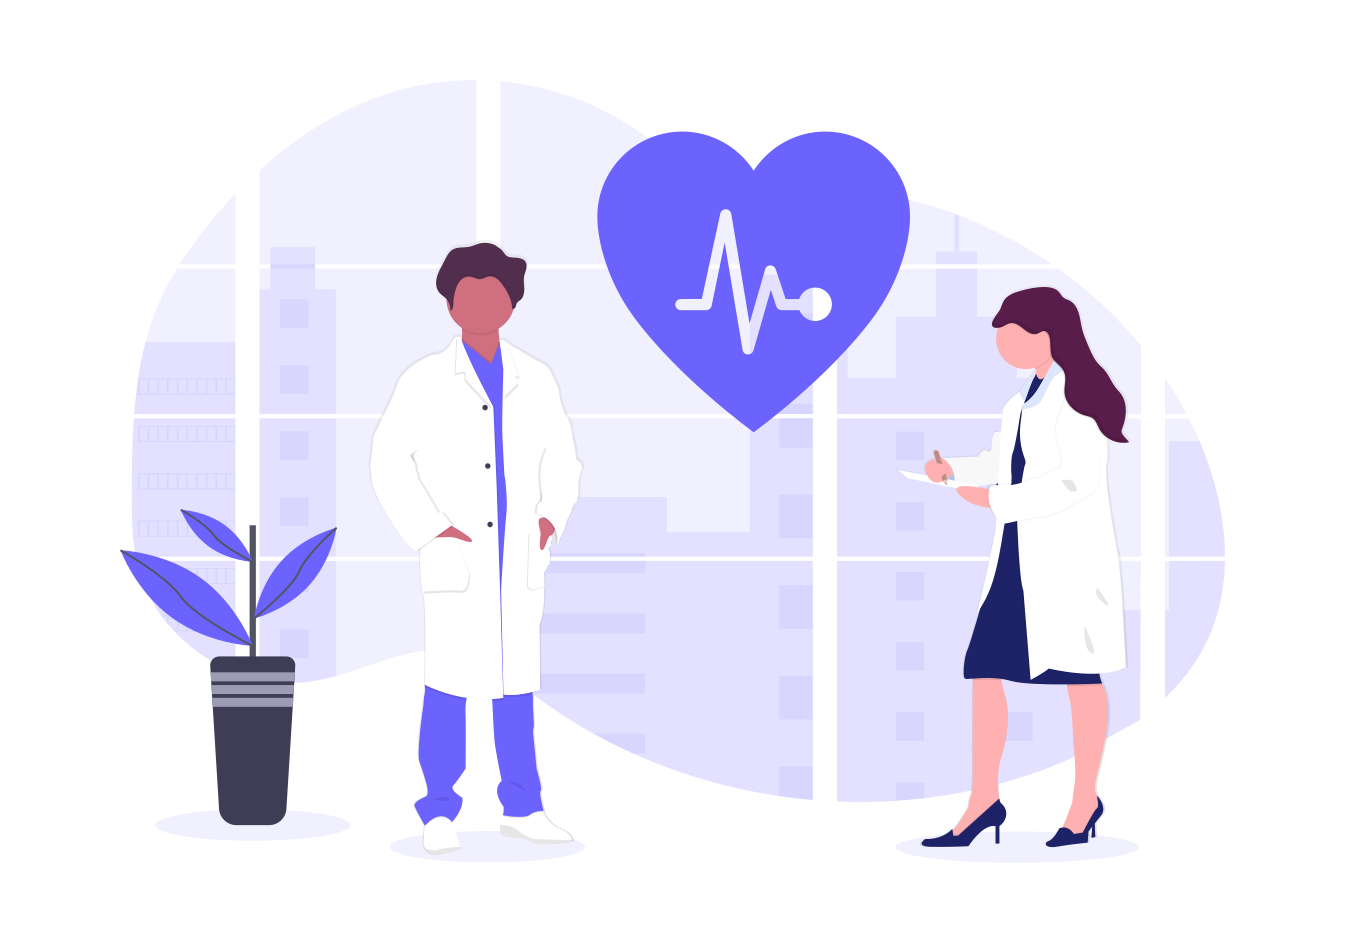
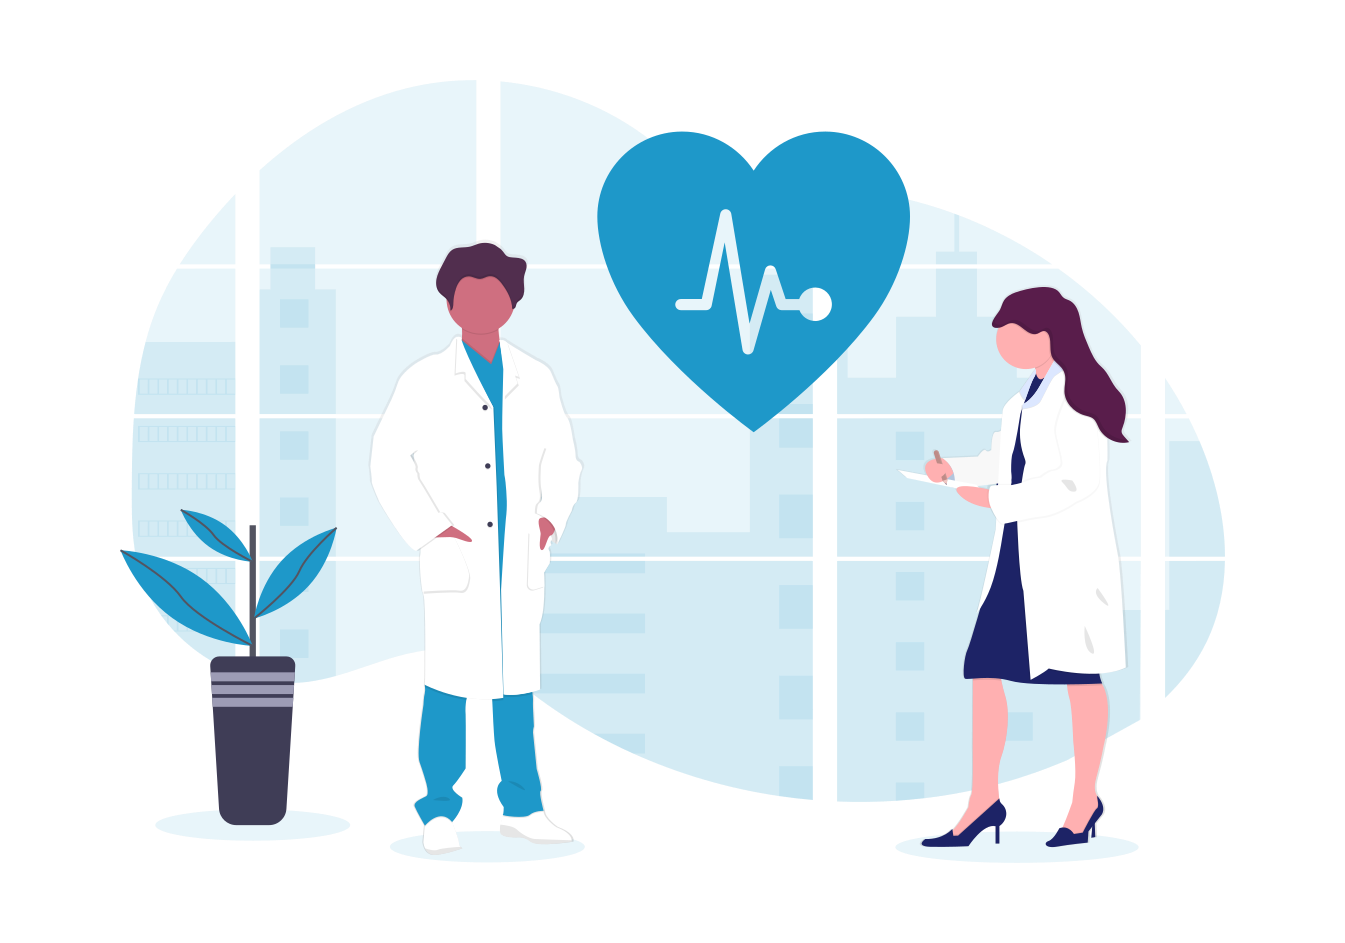
feat : adding doctor component

diff --git a/ecrans/home/index.js b/ecrans/home/index.js
@@ -13,6 +13,7 @@ import { fakeActivity } from "../../fakeData/fakeActivity.js";
 import ActivityItem from "../../composants/activityItem/index.js";
 import { fakeSymptomes } from "../../fakeData/fakeSymptome.js";
 import SymptomeItem from "../../composants/symptomeItem/index.js";
+import { fakeDoctor } from "../../fakeData/fakeDoctor.js";
 
 const Home = () => {
   return (
@@ -46,7 +47,9 @@ const Home = () => {
       {/* Liste des symptomes */}
 
       <View style={dashboardStyles.title}>
-        <Text style={dashboardStyles.titleBold}>Quel symptomes avez-vous ?</Text>
+        <Text style={dashboardStyles.titleBold}>
+          Quel symptomes avez-vous ?
+        </Text>
       </View>
 
       <FlatList
@@ -59,6 +62,34 @@ const Home = () => {
           return <SymptomeItem item={item} />;
         }}
       />
+
+      {/* fIN Liste des symptomes */}
+      <View style={dashboardStyles.title_space_between}>
+        <Text style={dashboardStyles.titleBold}>Nos docteurs</Text>
+        <TouchableOpacity>
+          <Text style={dashboardStyles.link}>Afficher tout</Text>
+        </TouchableOpacity>
+      </View>
+
+      <View style={dashboardStyles.doctorsContainer}>
+        {fakeDoctor.splice(0,3).map((doctor, index) => {
+          return (
+            <TouchableOpacity
+              key={doctor.id}
+              style={dashboardStyles.doctorCard}
+            >
+              <Image
+                source={{ url: `${doctor.img}` }}
+                style={dashboardStyles.doctorImg}
+              />
+              <View style={dashboardStyles.doctorInfo}>
+                <Text style={dashboardStyles.doctorName}>{doctor.fullName}</Text>
+                <Text style={dashboardStyles.doctorSpeciality}>{doctor.speciality}</Text>
+              </View>
+            </TouchableOpacity>
+          );
+        })}
+      </View>
     </ScrollView>
   );
 };

diff --git a/ecrans/home/style.js b/ecrans/home/style.js
@@ -1,5 +1,5 @@
 import { StyleSheet } from "react-native";
-import { PADDING } from "../../outils/constance";
+import { COLORS, PADDING } from "../../outils/constance";
 
 const dashboardStyles = StyleSheet.create({
   header: {
@@ -24,14 +24,60 @@ const dashboardStyles = StyleSheet.create({
     paddingVertical: PADDING.vertical,
   },
 
-  title : {
-    paddingHorizontal : PADDING.horizontal,
-    paddingVertical : PADDING.vertical
+  title: {
+    paddingHorizontal: PADDING.horizontal,
+    paddingVertical: PADDING.vertical,
   },
-  titleBold : {
-    fontWeight : 'bold'
+  titleBold: {
+    fontWeight: "bold",
+  },
+  title_space_between: {
+    paddingHorizontal: PADDING.horizontal,
+    paddingVertical: PADDING.vertical,
+    marginTop: 15,
+    flexDirection: "row",
+    justifyContent: "space-between",
+  },
+  link: {
+    color: COLORS.main,
+  },
+  doctorsContainer: {
+    paddingHorizontal: PADDING.horizontal,
+    paddingVertical: PADDING.vertical,
+  },
+  doctorCard : {
+    flex : 1,
+    flexDirection:'row',
+    backgroundColor:'white',
+    elevation : 5,
+    padding : 10,
+    paddingVertical : PADDING.vertical,
+    paddingHorizontal : PADDING.horizontal,
+    marginBottom : 10,
+    borderRadius : 5,
+  },
+  doctorImg:{
+    width : 80,
+    height :80,
+    borderRadius:80/2,
+    marginRight : 15,
+  },
+  doctorInfo : {
+    flexDirection:'column'
+  },
+  doctorName : {
+    fontWeight:'bold',
+    fontSize:16,
+    marginBottom : 15
+  },
+  doctorSpeciality:{
+    backgroundColor : COLORS.main,
+    padding : 5,
+    paddingHorizontal : PADDING.horizontal,
+    borderRadius : 15,
+    fontSize:14,
+    color : 'white',
   }
- 
 });
 
 export default dashboardStyles;

diff --git a/fakeData/fakeDoctor.js b/fakeData/fakeDoctor.js
@@ -1,0 +1,32 @@
+export const fakeDoctor = [
+  {
+    id: 1,
+    fullName: "John Doe",
+    speciality: "dentiste",
+    img: "https://images.unsplash.com/photo-1612349317150-e413f6a5b16d?ixlib=rb-4.0.3&ixid=MnwxMjA3fDB8MHxwaG90by1wYWdlfHx8fGVufDB8fHx8&auto=format&fit=crop&w=870&q=80",
+  },
+  {
+    id: 2,
+    fullName: "Vanessa Muniku",
+    speciality: "ophtamologue",
+    img: "https://images.unsplash.com/photo-1559839734-2b71ea197ec2?ixlib=rb-4.0.3&ixid=MnwxMjA3fDB8MHxwaG90by1wYWdlfHx8fGVufDB8fHx8&auto=format&fit=crop&w=870&q=80",
+  },
+  {
+    id: 3,
+    fullName: "Defi Munzika",
+    speciality: "gyneco",
+    img: "https://images.unsplash.com/photo-1537368910025-700350fe46c7?ixlib=rb-4.0.3&ixid=MnwxMjA3fDB8MHxwaG90by1wYWdlfHx8fGVufDB8fHx8&auto=format&fit=crop&w=870&q=80",
+  },
+  {
+    id: 4,
+    fullName: "Serge Kasodi",
+    speciality: "chirurgie",
+    img: "https://images.unsplash.com/photo-1622253692010-333f2da6031d?ixlib=rb-4.0.3&ixid=MnwxMjA3fDB8MHxwaG90by1wYWdlfHx8fGVufDB8fHx8&auto=format&fit=crop&w=764&q=80",
+  },
+  {
+    id: 5,
+    fullName: "Chacha Zita",
+    speciality: "labo",
+    img: "https://images.unsplash.com/photo-1551884170-09fb70a3a2ed?ixlib=rb-4.0.3&ixid=MnwxMjA3fDB8MHxwaG90by1wYWdlfHx8fGVufDB8fHx8&auto=format&fit=crop&w=876&q=80",
+  },
+];

diff --git a/fakeData/fakeActivity.js b/fakeData/fakeActivity.js
@@ -1,32 +1,42 @@
+import doctor from "../assets/images/doctor.png"
+import traitement from "../assets/images/traitement.png"
+import medecine from "../assets/images/medecine.png"
+
 export const fakeActivity = [
   {
     id: 1,
     mainText: "Docteur à domicile",
     subText: "Votre docteur à domicile",
+    img : doctor,
   },
   {
     id: 2,
     mainText: "Clinique pour vous",
     subText: "Une clinique pour vous soigner",
+    img : medecine,
   },
   {
     id: 3,
     mainText: "Traitement de qualité",
     subText: "Vous aurez un traitement de qualité",
+    img : traitement,
   },
   {
     id: 4,
     mainText: "Docteur à domicile",
     subText: "Votre docteur à domicile",
+    img : doctor,
   },
   {
     id: 5,
     mainText: "Clinique pour vous",
     subText: "Une clinique pour vous soigner",
+    img : medecine,
   },
   {
     id: 6,
     mainText: "Traitement de qualité",
     subText: "Vous aurez un traitement de qualité",
+    img:traitement,
   },
 ];

diff --git a/composants/symptomeItem/index.js b/composants/symptomeItem/index.js
@@ -1,12 +1,18 @@
-import { View, Text } from 'react-native'
-import React from 'react'
+import { Image, Text, TouchableOpacity, View } from "react-native";
+import React from "react";
+import styles from "./style";
 
-const SymptomeItem = () => {
+const SymptomeItem = ({ item }) => {
   return (
-    <View>
-      <Text>index</Text>
-    </View>
-  )
-}
+    <TouchableOpacity style={styles.item}>
+      <View>
+        <Image source={item.img} style={styles.itemImg} />
 
-export default SymptomeItem
+        {/* <Text style={styles.mainText}>{item.mainText}</Text> */}
+        <Text style={styles.subText}>{item.libelle}</Text>
+      </View>
+    </TouchableOpacity>
+  );
+};
+
+export default SymptomeItem;

diff --git a/fakeData/fakeSymptome.js b/fakeData/fakeSymptome.js
@@ -1,17 +1,21 @@
+import malaria from "../assets/images/malaria.png";
+import grippe from "../assets/images/grippe.png";
+import maltete from "../assets/images/maltete.png";
+
 export const fakeSymptomes = [
   {
     id: 1,
-    img: "img1.png",
-    libelle: "Mal à la tête",
+    libelle: "mal à la tête",
+    img: malaria,
   },
   {
     id: 2,
-    img: "img1.png",
-    libelle: "Fièvre",
+    libelle: "Rhume",
+    img: grippe,
   },
   {
     id: 3,
-    img: "img1.png",
-    libelle: "Rhume",
+    libelle: "Fièvre",
+    img: maltete,
   },
 ];

diff --git a/composants/symptomeItem/style.js b/composants/symptomeItem/style.js
@@ -1,0 +1,21 @@
+import { StyleSheet } from "react-native";
+import {PADDING} from "../../outils/constance"
+
+const styles = StyleSheet.create({
+   item : {
+    marginRight  : 15,
+    flexDirection : 'row',
+    alignItems:'center',
+    backgroundColor : 'white',
+    borderRadius : 5,
+    paddingHorizontal : PADDING.horizontal,
+    paddingVertical : PADDING.vertical,
+   },
+   itemImg:{
+    width:60,
+    height : 65,
+    marginRight : 5
+   }
+})
+
+export default styles

diff --git a/composants/activityItem/index.js b/composants/activityItem/index.js
@@ -6,7 +6,7 @@ const ActivityItem = ({item}) => {
   return (
     <TouchableOpacity style={styles.scrollableListItem}>
       <Image
-        source={require("../../assets/images/medecine.png")}
+        source={item.img}
         style={styles.fakeDataImg}
       />
 

diff --git a/composants/activityItem/style.js b/composants/activityItem/style.js
@@ -19,8 +19,8 @@ const styles = StyleSheet.create({
         fontSize : 12
       },
       fakeDataImg:{
-        width:48,
-        height:48
+        width:100,
+        height:66
       }
 })
 

diff --git a/outils/constance.js b/outils/constance.js
@@ -1,5 +1,5 @@
 export const COLORS = {
-  main: "#695cd4",
+  main: "#1e98c9",
   grey: "#f4f6fa",
   black: "#000",
   iconColor: "#eaebef",
